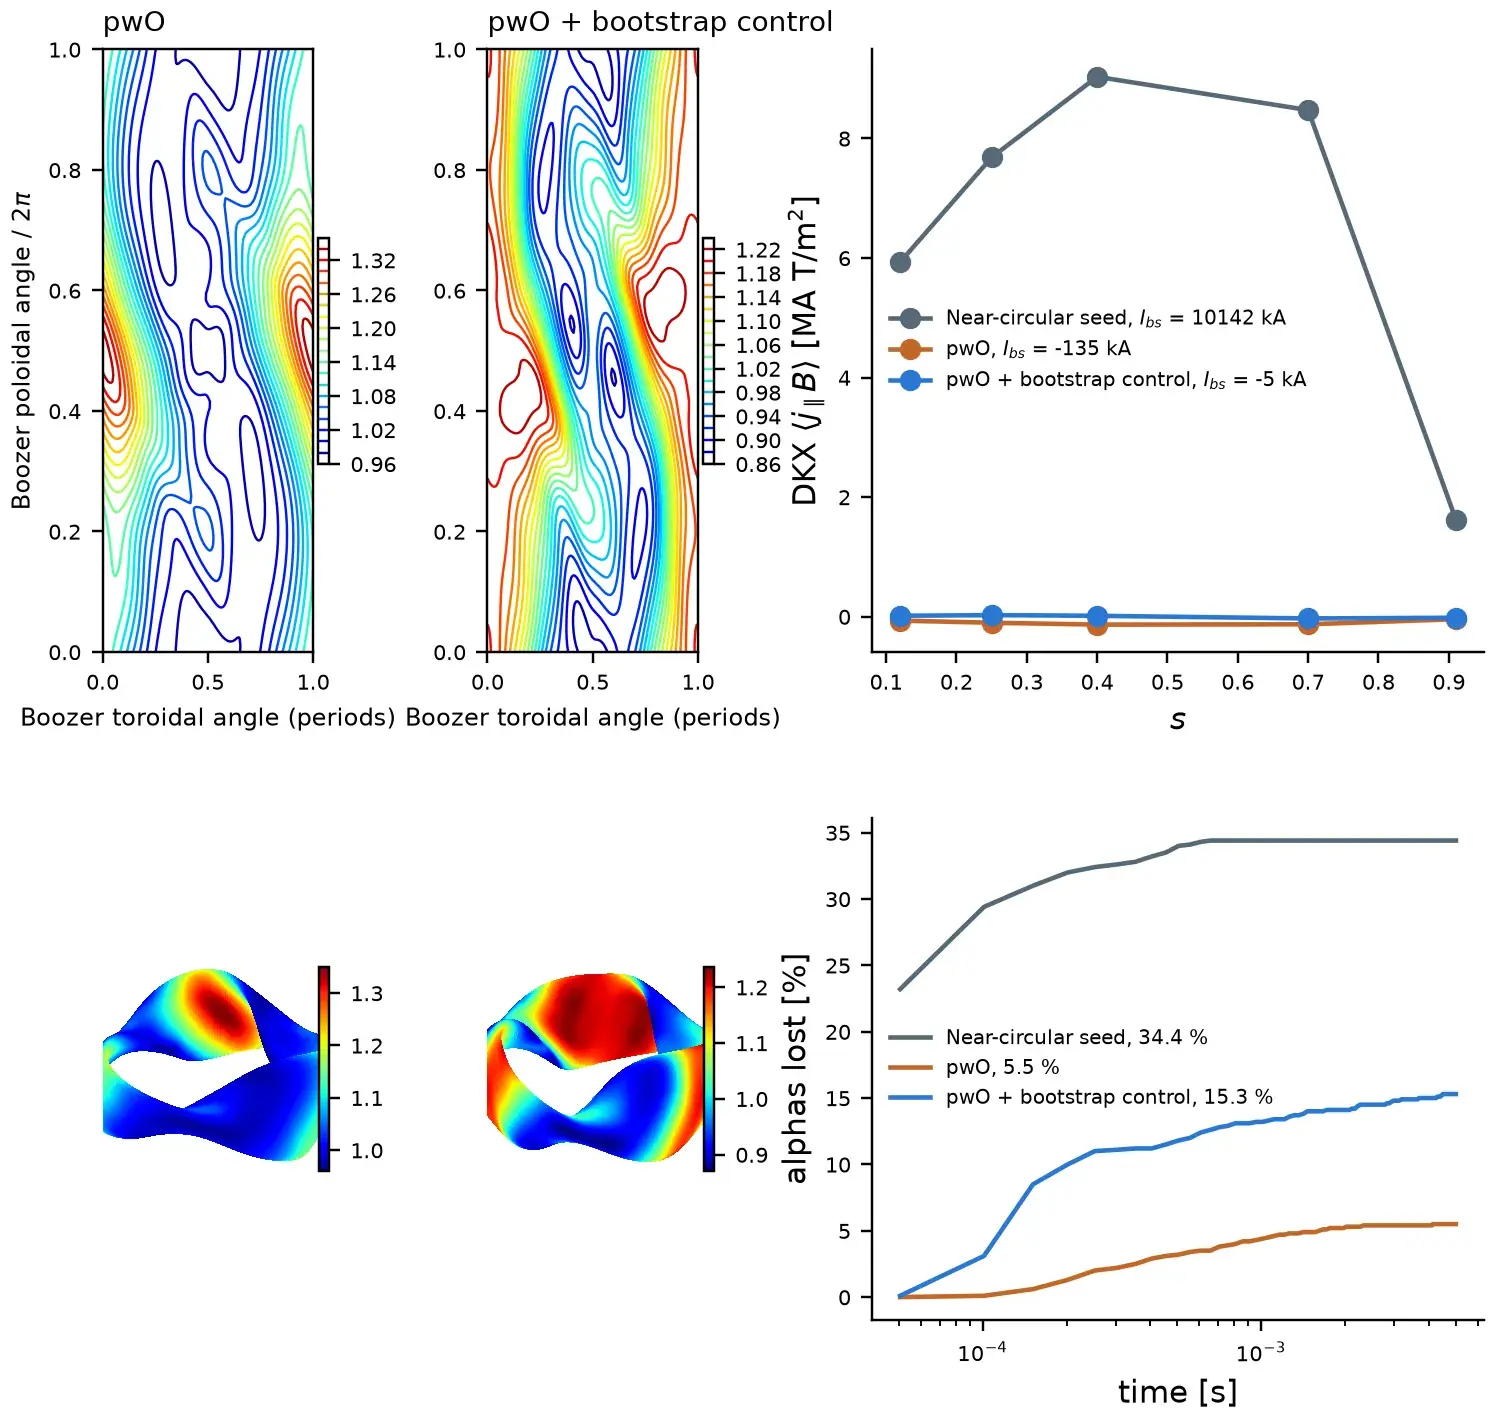
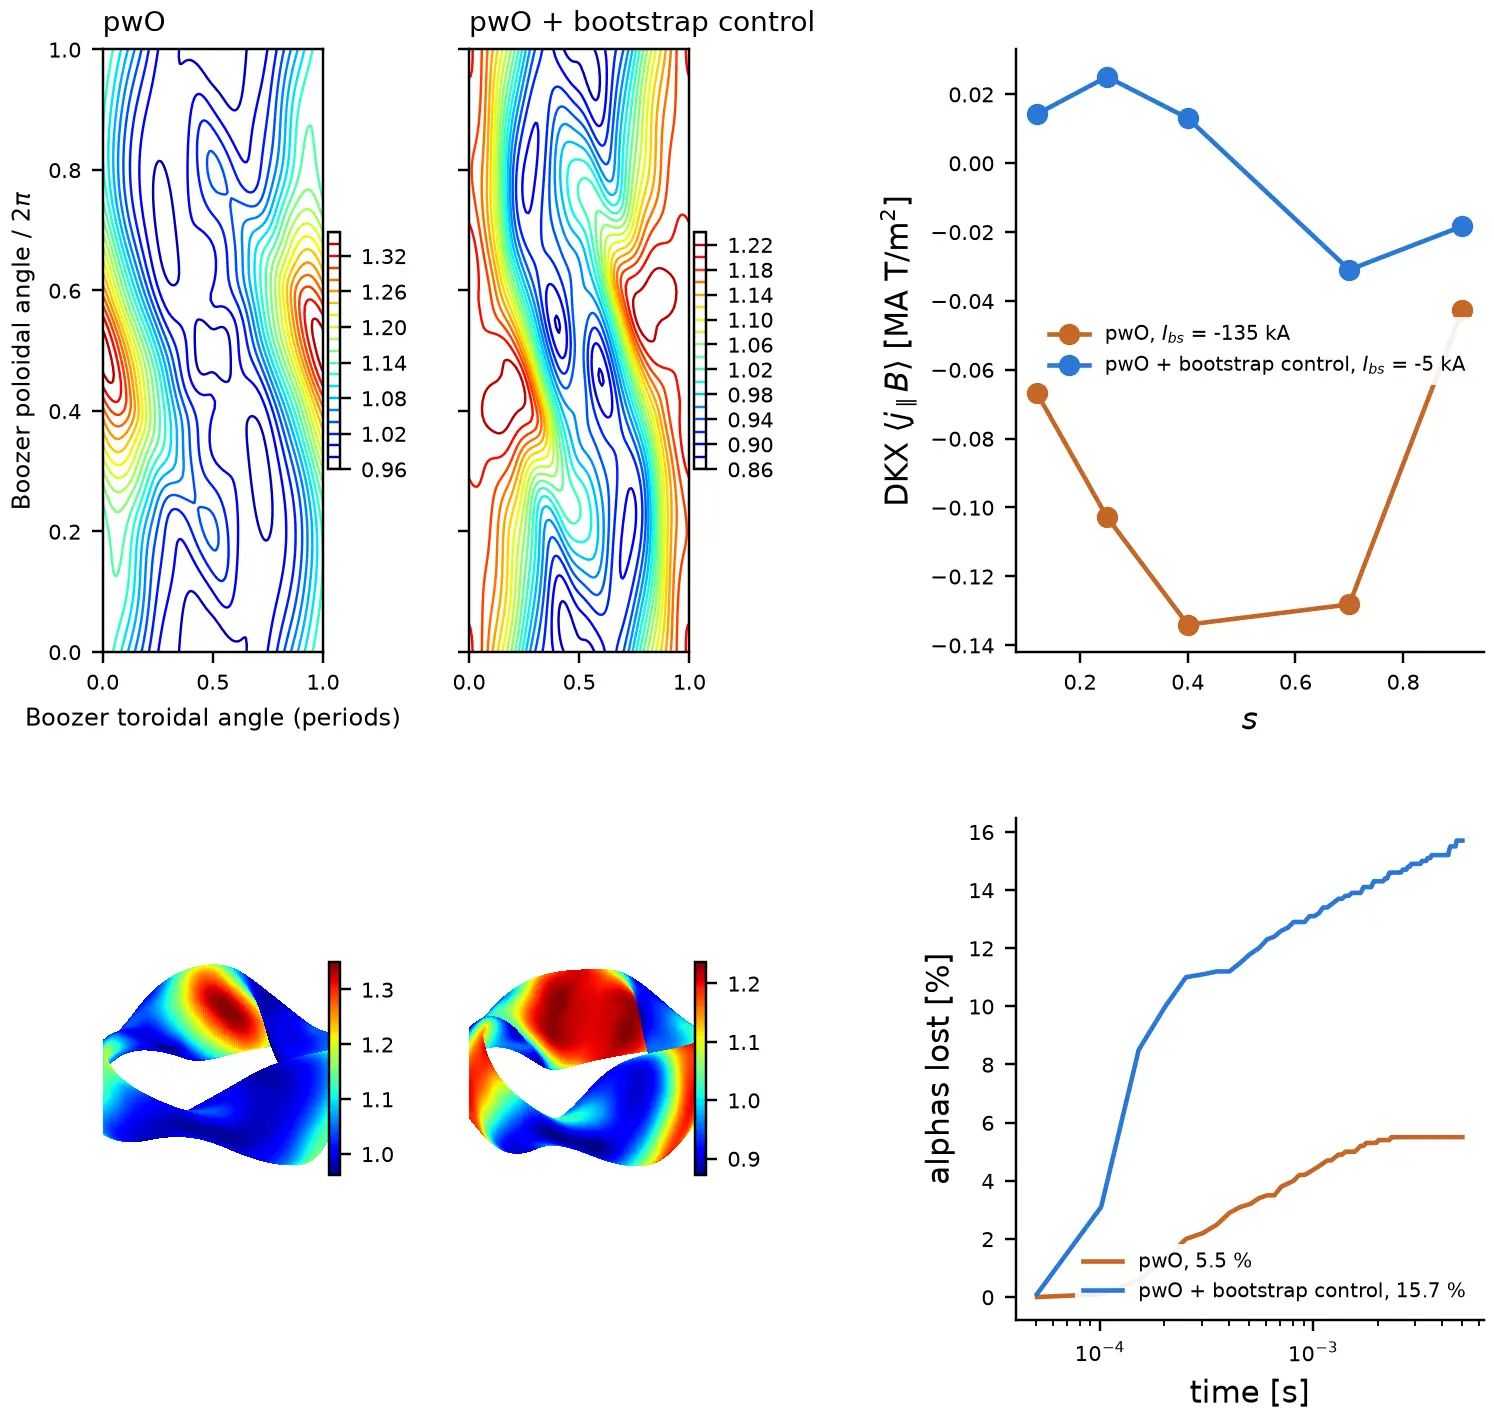
Drop the near-circular seed from the pwO bootstrap README figure

diff --git a/examples/plot_optimized_families.py b/examples/plot_optimized_families.py
@@ -13,7 +13,7 @@ four equally spaced toroidal cuts over one field period, the 3-D boundary, and
 and ``|iota|`` profiles; it needs ``vmex[neoclassical]``. The ``pwo_bootstrap`` figure
 compares ``pwO_optimization.py`` runs with ``BOOTSTRAP_TERM = None`` and ``"band"``
 (directories ``pwO`` and ``pwO_band``): ``|B|``, the DKX bootstrap current and the alpha
-losses against the seed. The DKX files ``dkx_<case>.json`` (``seed``, ``pwO``, ``pwO_band``)
+losses. The DKX files ``dkx_<case>.json`` (``pwO``, ``pwO_band``)
 come from ``bootstrap_bench.py --res 25,33,64,8`` run on each ``wout``.
 """
 
@@ -164,15 +164,14 @@ def _draw_pwo(output):
 
 
 def _draw_pwo_bootstrap(output):
-    cases = (("Near-circular seed", _pwo_seed(), "seed", "#566a79"),
-             ("pwO", QS_INPUT_DIR / "pwO" / f"input.pwO_optimized_nfp{PWO_NFP}", "pwO", "#c56627"),
+    cases = (("pwO", QS_INPUT_DIR / "pwO" / f"input.pwO_optimized_nfp{PWO_NFP}", "pwO", "#c56627"),
              ("pwO + bootstrap control", QS_INPUT_DIR / "pwO_band" / f"input.pwO_optimized_nfp{PWO_NFP}",
               "pwO_band", "#2a78d6"))
     figure = plt.figure(figsize=(8.1, 7.5), dpi=PLOT_DPI)
-    grid = figure.add_gridspec(2, 4, height_ratios=(1.2, 1.0), hspace=0.3, wspace=0.7)
-    current, loss = figure.add_subplot(grid[0, 2:]), figure.add_subplot(grid[1, 2:])
+    grid = figure.add_gridspec(2, 5, height_ratios=(1.2, 1.0), width_ratios=(1.4, 1.4, 0.3, 1, 1), hspace=0.3, wspace=0.75)
+    current, loss = figure.add_subplot(grid[0, 3:]), figure.add_subplot(grid[1, 3:])
     for index, (title, source, tag, color) in enumerate(cases):
-        equilibrium = _solve(source if tag == "seed" else vj.VmecInput.from_file(source))
+        equilibrium = _solve(vj.VmecInput.from_file(source))
         dkx = json.loads((QS_INPUT_DIR / f"dkx_{tag}.json").read_text())
         current.plot(dkx["surfaces"], 1e-6 * np.array(dkx["dkx_jdotb"]), "o-", color=color,
                      label=rf"{title}, $I_{{bs}}$ = {1e-3 * dkx['I_dkx']:.0f} kA")
@@ -180,19 +179,18 @@ def _draw_pwo_bootstrap(output):
         t, lost = np.asarray(alphas.times), np.asarray(alphas.loss_fractions)
         loss.plot(t[t > 0], 100 * lost[t > 0], color=color,
                   label=f"{title}, {100 * alphas.loss_fraction:.1f} %")
+        boozer = figure.add_subplot(grid[0, index]); _boozer(figure, boozer, equilibrium.wout, f"bs{index}")
+        boozer.set_title(title, loc="left", fontsize=9)
+        _boundary_3d(figure, figure.add_subplot(grid[1, index], projection="3d"), equilibrium.wout)
+        boozer.set_ylabel(r"Boozer poloidal angle / $2\pi$" if index == 0 else "", fontsize=8)
         if index:
-            boozer = figure.add_subplot(grid[0, index - 1]); _boozer(figure, boozer, equilibrium.wout, f"bs{index}")
-            boozer.set_title(title, loc="left", fontsize=9)
-            surface = figure.add_subplot(grid[1, index - 1], projection="3d")
-            _boundary_3d(figure, surface, equilibrium.wout)
-            if index == 1:
-                boozer.set_ylabel(r"Boozer poloidal angle / $2\pi$", fontsize=8)
+            boozer.set(yticklabels=[], xlabel="")
     current.set(xlabel="$s$", ylabel=r"DKX $\langle j_\parallel B\rangle$ [MA T/m$^2$]")
     loss.set(xscale="log", xlabel="time [s]", ylabel="alphas lost [%]")
-    for axis in (current, loss):
-        axis.legend(fontsize=6.5, frameon=False); axis.tick_params(labelsize=7)
+    for axis, corner in ((current, "center right"), (loss, "lower right")):
+        axis.legend(fontsize=6.5, loc=corner, framealpha=0.9, edgecolor="none"); axis.tick_params(labelsize=7)
         axis.spines[["top", "right"]].set_visible(False)
-    figure.savefig(output, dpi=PLOT_DPI, bbox_inches="tight", pad_inches=0.05)
+    figure.savefig(output, dpi=PLOT_DPI, bbox_inches="tight", pad_inches=0.05, pil_kwargs={"quality": 70})
     plt.close(figure); print(f"wrote {output}")
 
 

diff --git a/README.md b/README.md
@@ -298,7 +298,7 @@ From a near-circular seed, modes 1–3 and no magnetic well, the NFP 3 vacuum ru
 
 The mapped target field carries zero bootstrap current; the current lives in the unmapped B<sub>max</sub> band, and `BOOTSTRAP_TERM = "band"` flattens |B| across that band. The [docs](docs/explanation/confinement.rst#bootstrap-current-of-a-pwo-field) give the equations.
 
-![pwO with and without the bootstrap band term: |B| in Boozer coordinates and on the boundary, DKX bootstrap current and alpha losses against the seed](docs/_static/figures/readme_pwo_bootstrap.webp)
+![pwO with and without the bootstrap band term: |B| in Boozer coordinates and on the boundary, DKX bootstrap current and alpha losses](docs/_static/figures/readme_pwo_bootstrap.webp)
 
 ### Free boundary with coils
 
